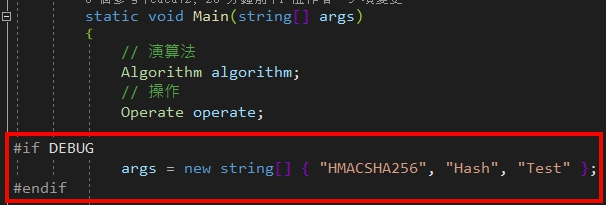
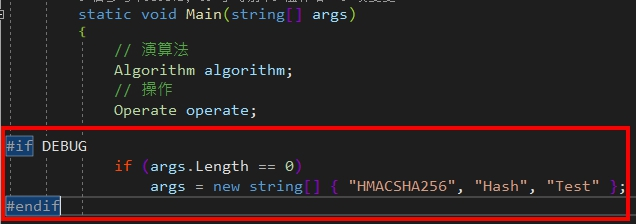
調整 HMACSHA256 驗算時不需因文化區域特性及大小寫而影響字串相等判斷 & 調整主程式進入點的輸入參數判斷(避免因為透過 Command line 輸入參數時，導致參數一直吃不到...)

Changed region(s): [[0.0, 0.0, 1.0, 1.0], [0.1188, 0.0, 0.6535, 0.1171], [0.1188, 0.1171, 0.1485, 0.1756]]

diff --git a/src/ConsoleApp/Program.cs b/src/ConsoleApp/Program.cs
@@ -36,10 +36,11 @@ namespace ConsoleApp
             Operate operate;
 
 #if DEBUG
-            args = new string[] { "HMACSHA256", "Hash", "Test" };
+            if (args.Length == 0)
+                args = new string[] { "HMACSHA256", "Hash", "Test" };
 #endif
 
-            if (args.Length != 0)
+            if (args.Length > 0)
             {
                 algorithm = (Algorithm)System.Enum.Parse(typeof(Algorithm), args[0]);
                 operate = (Operate)System.Enum.Parse(typeof(Operate), args[1]);

diff --git a/src/HashCore/MACAlgorithm/HMACSHA256.cs b/src/HashCore/MACAlgorithm/HMACSHA256.cs
@@ -38,7 +38,7 @@ namespace HashCore.MACAlgorithm
         /// <param name="hash">雜湊值</param>
         public bool Verify(string message, string key, string hash)
         {
-            return hash.Equals(Hash(message, key));
+            return string.Equals(hash, Hash(message, key), StringComparison.InvariantCultureIgnoreCase);
         }
     }
 }
